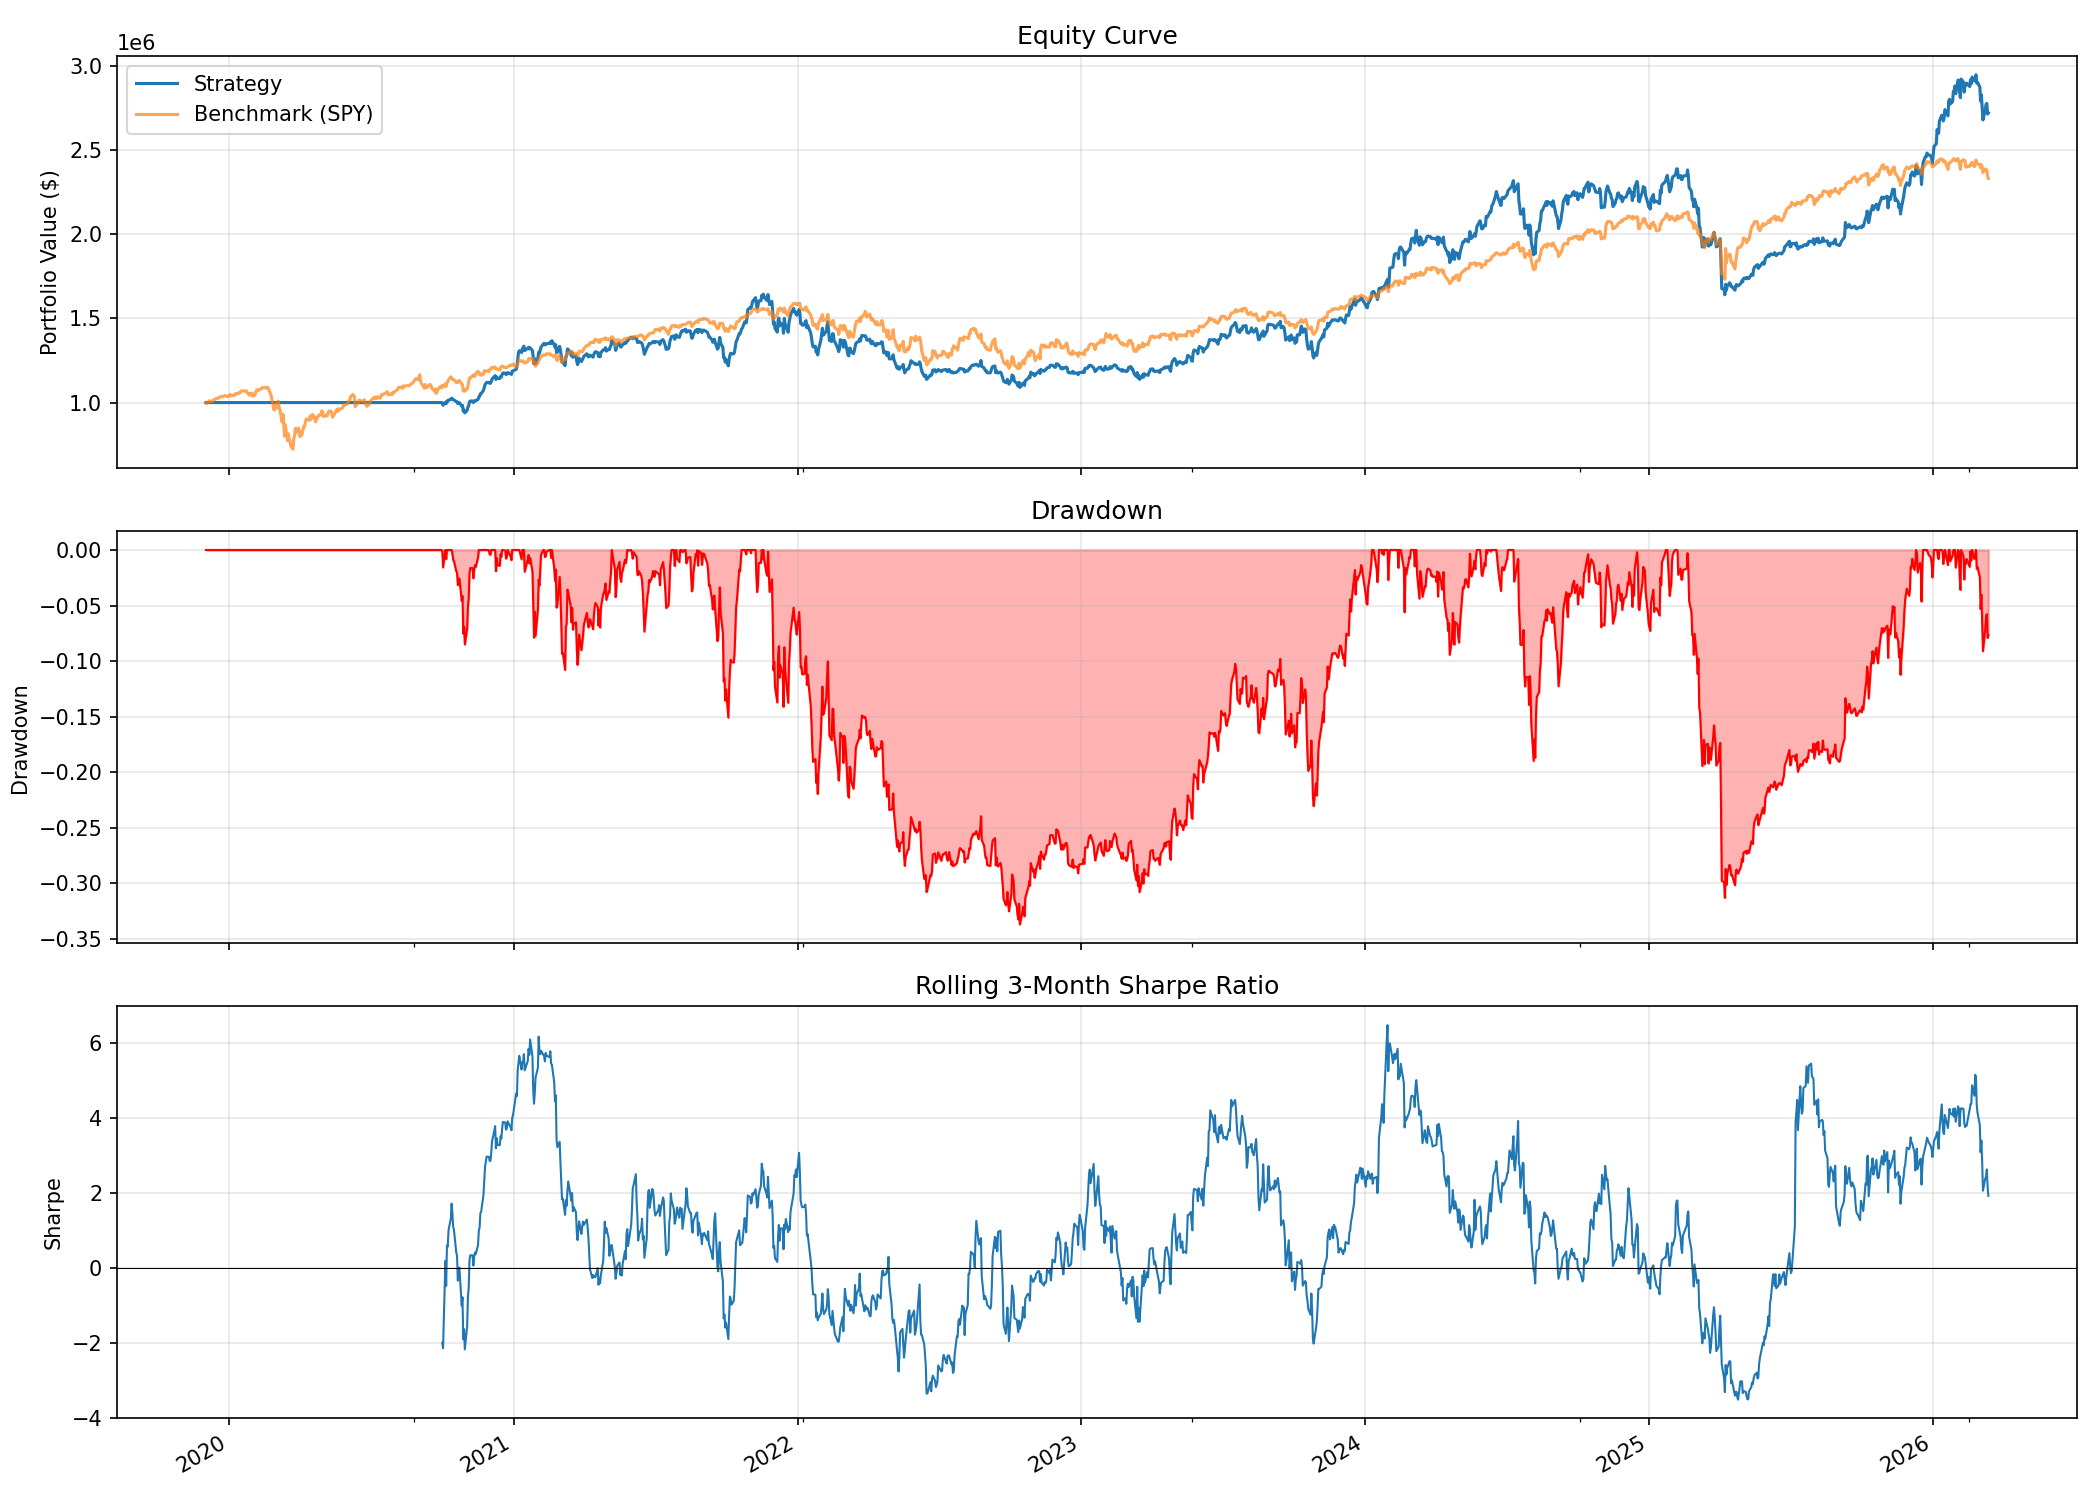
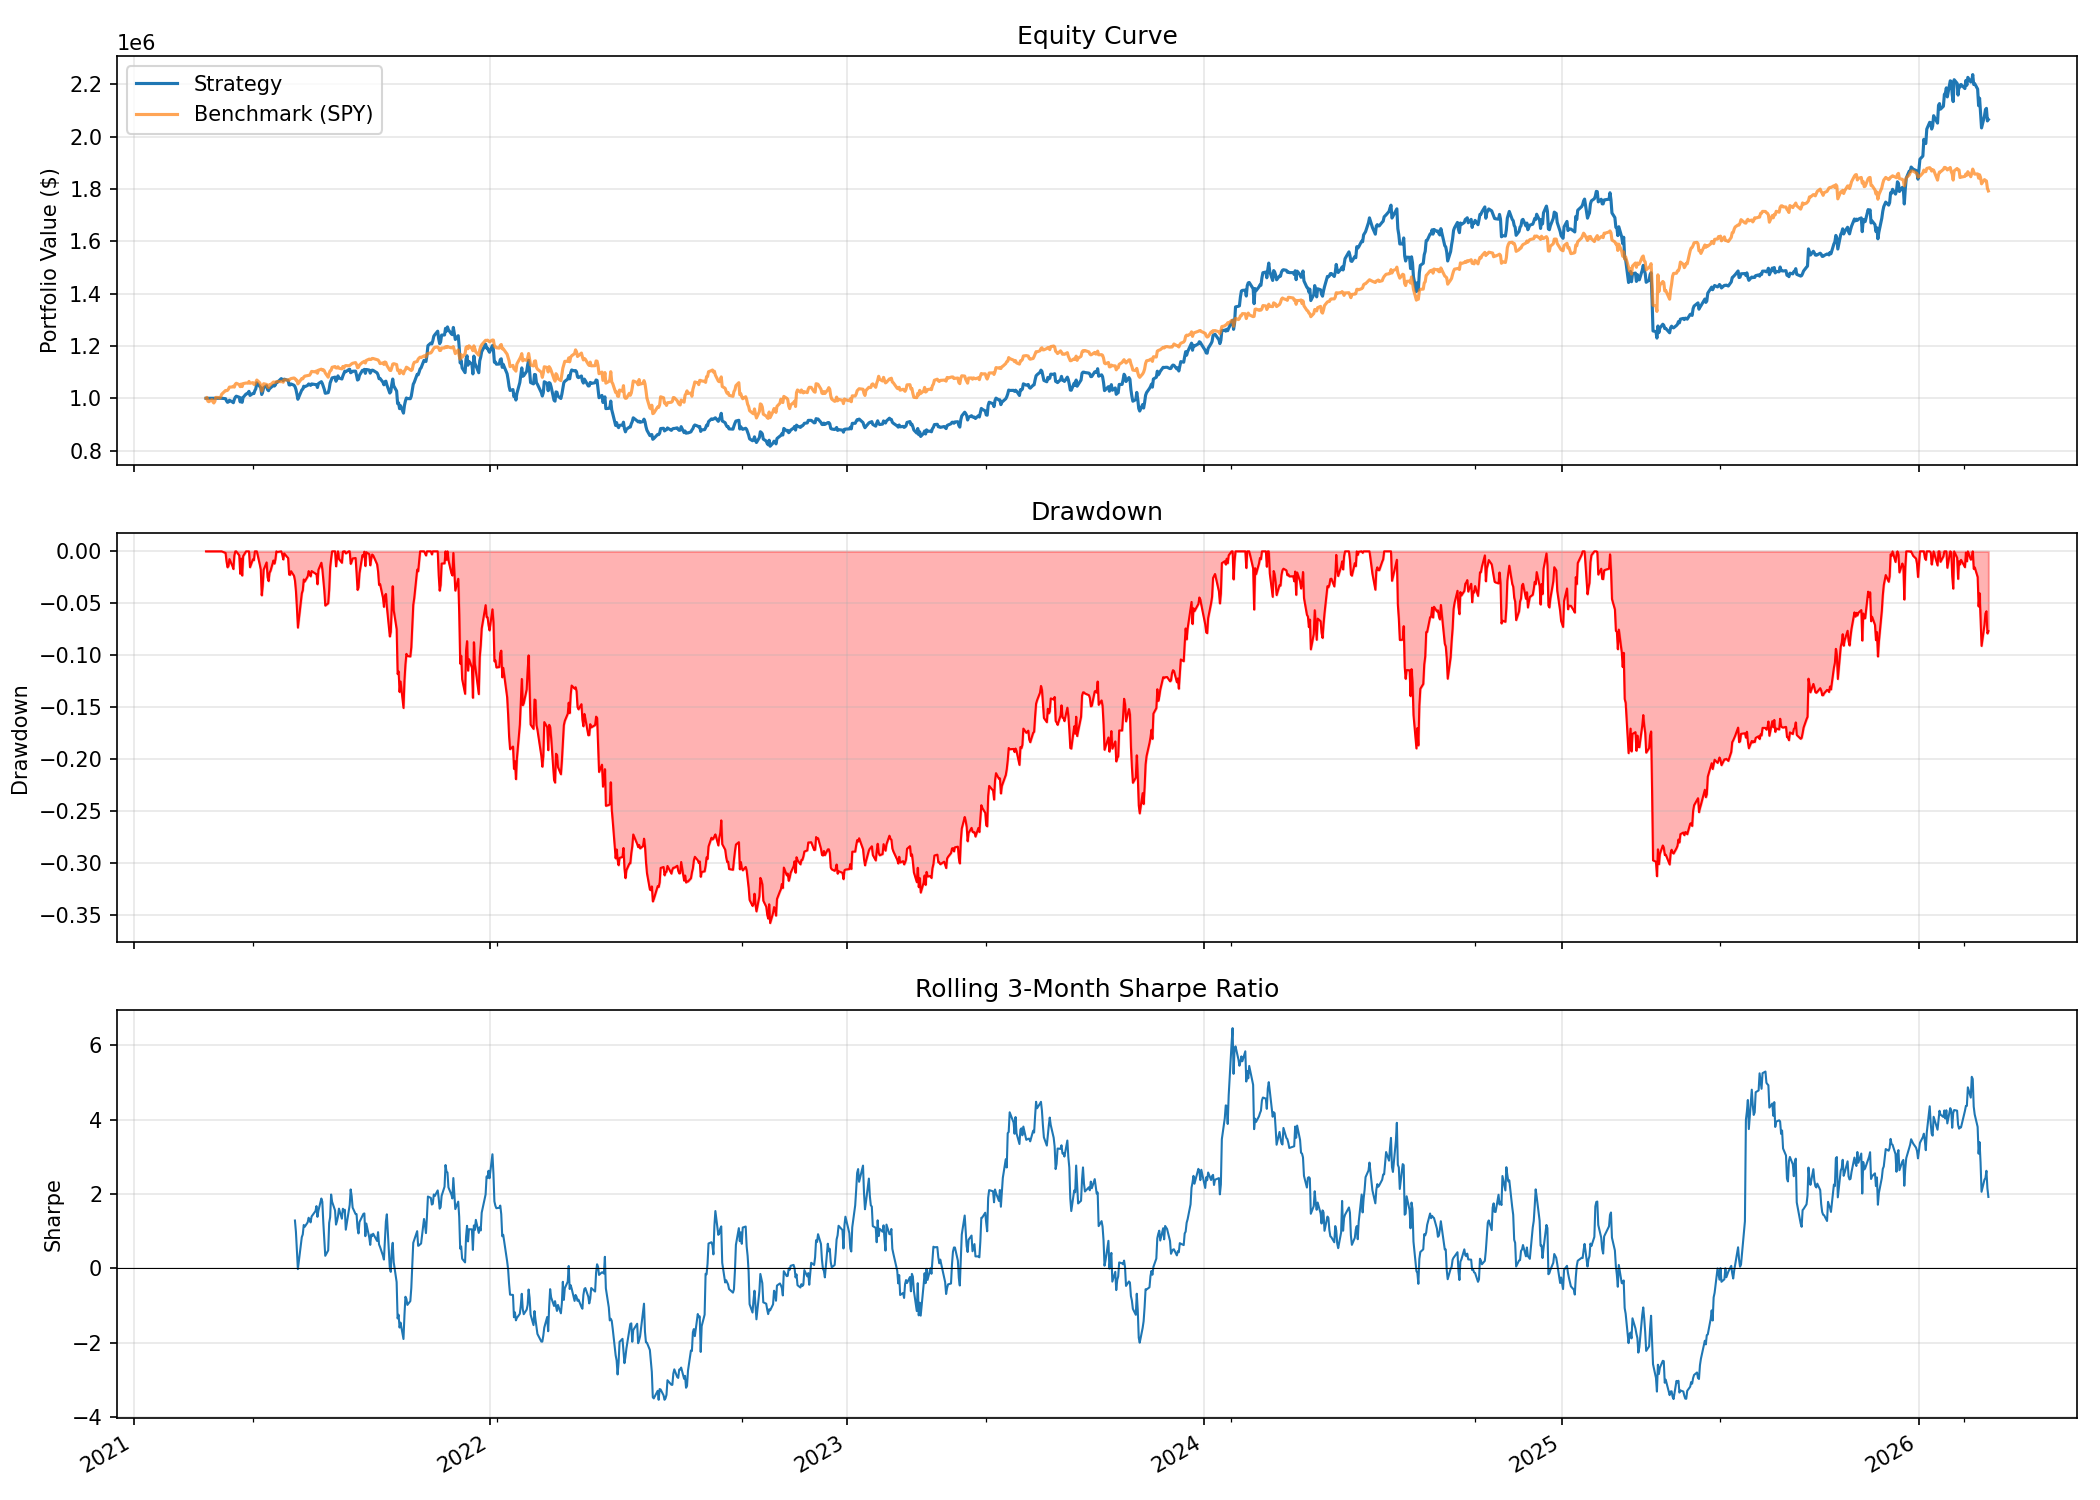
Fix backtest warm-up flat line: trim equity curve to requested start date
The backtest engine was plotting from the warm-up data start, showing a
flat cash line before first trade. Now trims prices to user-specified
start date before passing to backtest engine.

Corrected results (no warm-up distortion):
- 5yr: +107% vs SPY +79% (Sharpe 0.66)
- 3yr: +115% vs SPY +74% (Sharpe 1.23)
- 1yr: +24% vs SPY +18% (Sharpe 0.97) — now beats SPY on all timeframes

diff --git a/quant/strategy.py b/quant/strategy.py
@@ -147,8 +147,10 @@ class MultiFactorStrategy:
 
         logger.info("Generated %d rebalance points", len(target_weights))
 
-        # 4. Run backtest
-        result = self.backtest_engine.run(prices, target_weights, self.data.benchmark)
+        # 4. Run backtest — trim prices to requested start date so the
+        #    equity curve doesn't show a flat warm-up period
+        backtest_prices = prices.loc[start:] if start else prices
+        result = self.backtest_engine.run(backtest_prices, target_weights, self.data.benchmark)
 
         # 5. Post-backtest risk check: drawdown monitoring
         if not result.equity_curve.empty:

diff --git a/README.md b/README.md
@@ -16,34 +16,31 @@ A multi-factor quantitative trading system for medium-term US equities. Uses mom
 
 | Metric / 指标 | Strategy / 策略 | SPY | Difference / 差异 |
 |---------------|:-----------:|:---:|:---------:|
-| **Total Return / 总收益** | **+167.7%** | +133.1% | **+34.6pp** |
-| **CAGR / 年化收益** | **17.0%** | — | — |
-| **Sharpe Ratio** | **0.76** | — | — |
-| **Sortino Ratio** | 0.97 | — | — |
+| **Total Return / 总收益** | **+106.5%** | +79.2% | **+27.3pp** |
+| **CAGR / 年化收益** | **15.7%** | — | — |
+| **Sharpe Ratio** | **0.66** | — | — |
 | **Max Drawdown / 最大回撤** | -35.8% | — | — |
-| **Information Ratio** | +0.14 | — | — |
 
 ### 3-Year Backtest (2023-03 → 2026-03)
 
 | Metric / 指标 | Strategy / 策略 | SPY | Difference / 差异 |
 |---------------|:-----------:|:---:|:---------:|
-| **Total Return / 总收益** | **+133.0%** | +51.2% | **+81.8pp** |
-| **CAGR / 年化收益** | **21.9%** | — | — |
-| **Sharpe Ratio** | **1.05** | — | — |
-| **Sortino Ratio** | **1.28** | — | — |
+| **Total Return / 总收益** | **+115.1%** | +73.9% | **+41.2pp** |
+| **CAGR / 年化收益** | **29.3%** | — | — |
+| **Sharpe Ratio** | **1.23** | — | — |
+| **Sortino Ratio** | **1.63** | — | — |
 | **Max Drawdown / 最大回撤** | -31.5% | — | — |
-| **Information Ratio** | **+0.62** | — | — |
+| **Information Ratio** | **+0.58** | — | — |
 
 ### 1-Year Backtest (2025-03 → 2026-03)
 
 | Metric / 指标 | Strategy / 策略 | SPY | Difference / 差异 |
 |---------------|:-----------:|:---:|:---------:|
-| **Total Return / 总收益** | +30.6% | +49.3% | -18.7pp |
-| **CAGR / 年化收益** | 12.5% | — | — |
-| **Sharpe Ratio** | 0.61 | — | — |
-| **Max Drawdown / 最大回撤** | -31.5% | — | — |
-
-> 1年期跑输SPY主要因为2025年3-4月的momentum crash（动量崩溃）：之前的赢家在V型反转中跌最深，策略吃了-31%回撤。这是纯做多动量策略的固有弱点。
+| **Total Return / 总收益** | **+23.5%** | +18.2% | **+5.3pp** |
+| **CAGR / 年化收益** | **23.9%** | — | — |
+| **Sharpe Ratio** | **0.97** | — | — |
+| **Sortino Ratio** | **1.17** | — | — |
+| **Max Drawdown / 最大回撤** | -18.4% | — | — |
 
 ### Performance Chart / 净值曲线 (5-Year)
 
